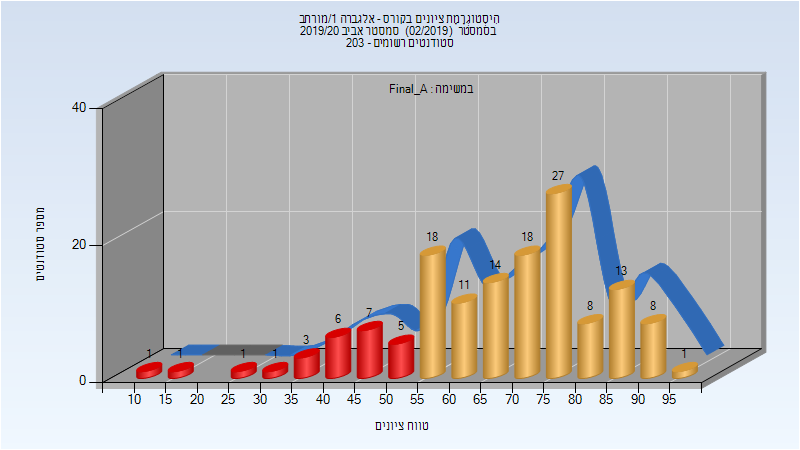
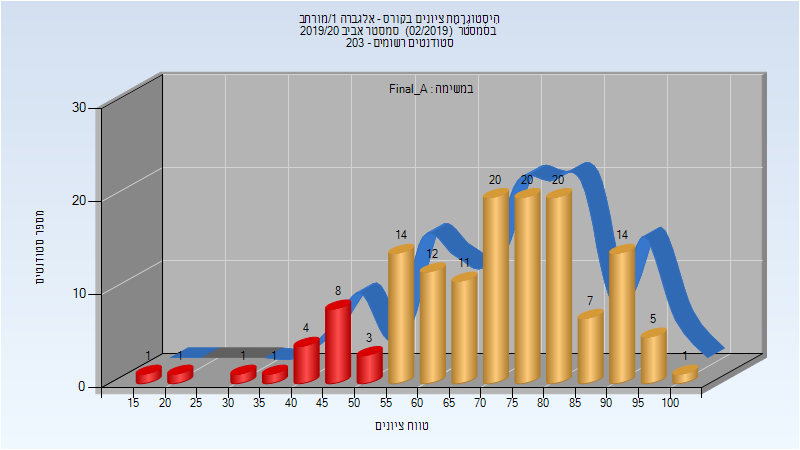
Deploy michael-maltsev/technion-histograms to github.com/michael-maltsev/technion-histograms.git:gh-pages

diff --git a/104016/index.html b/104016/index.html
@@ -2256,12 +2256,12 @@
 <tbody>
 <tr>
 <td>143</td>
-<td>100/43</td>
+<td>112/31</td>
+<td>78</td>
+<td>17</td>
+<td>100</td>
+<td>67.531</td>
 <td>70</td>
-<td>13</td>
-<td>98</td>
-<td>63.545</td>
-<td>66</td>
 </tr>
 </tbody>
 </table>
@@ -2282,12 +2282,12 @@
 <tbody>
 <tr>
 <td>143</td>
-<td>118/25</td>
-<td>83</td>
-<td>13</td>
-<td>99</td>
-<td>67.636</td>
-<td>70</td>
+<td>124/19</td>
+<td>87</td>
+<td>17</td>
+<td>100</td>
+<td>70.958</td>
+<td>73</td>
 </tr>
 </tbody>
 </table>

diff --git a/104016/README.md b/104016/README.md
@@ -715,7 +715,7 @@
 
 | סטודנטים | עברו/נכשלו | אחוז עוברים | ציון מינימלי | ציון מקסימלי | ממוצע | חציון |
 | ---- | ---- | ---- | ---- | ---- | ---- | ---- |
-| 143 | 100/43 | 70 | 13 | 98 | 63.545 | 66 |
+| 143 | 112/31 | 78 | 17 | 100 | 67.531 | 70 |
 
 ### סופי מועד א'
 
@@ -723,5 +723,5 @@
 
 | סטודנטים | עברו/נכשלו | אחוז עוברים | ציון מינימלי | ציון מקסימלי | ממוצע | חציון |
 | ---- | ---- | ---- | ---- | ---- | ---- | ---- |
-| 143 | 118/25 | 83 | 13 | 99 | 67.636 | 70 |
+| 143 | 124/19 | 87 | 17 | 100 | 70.958 | 73 |
 
